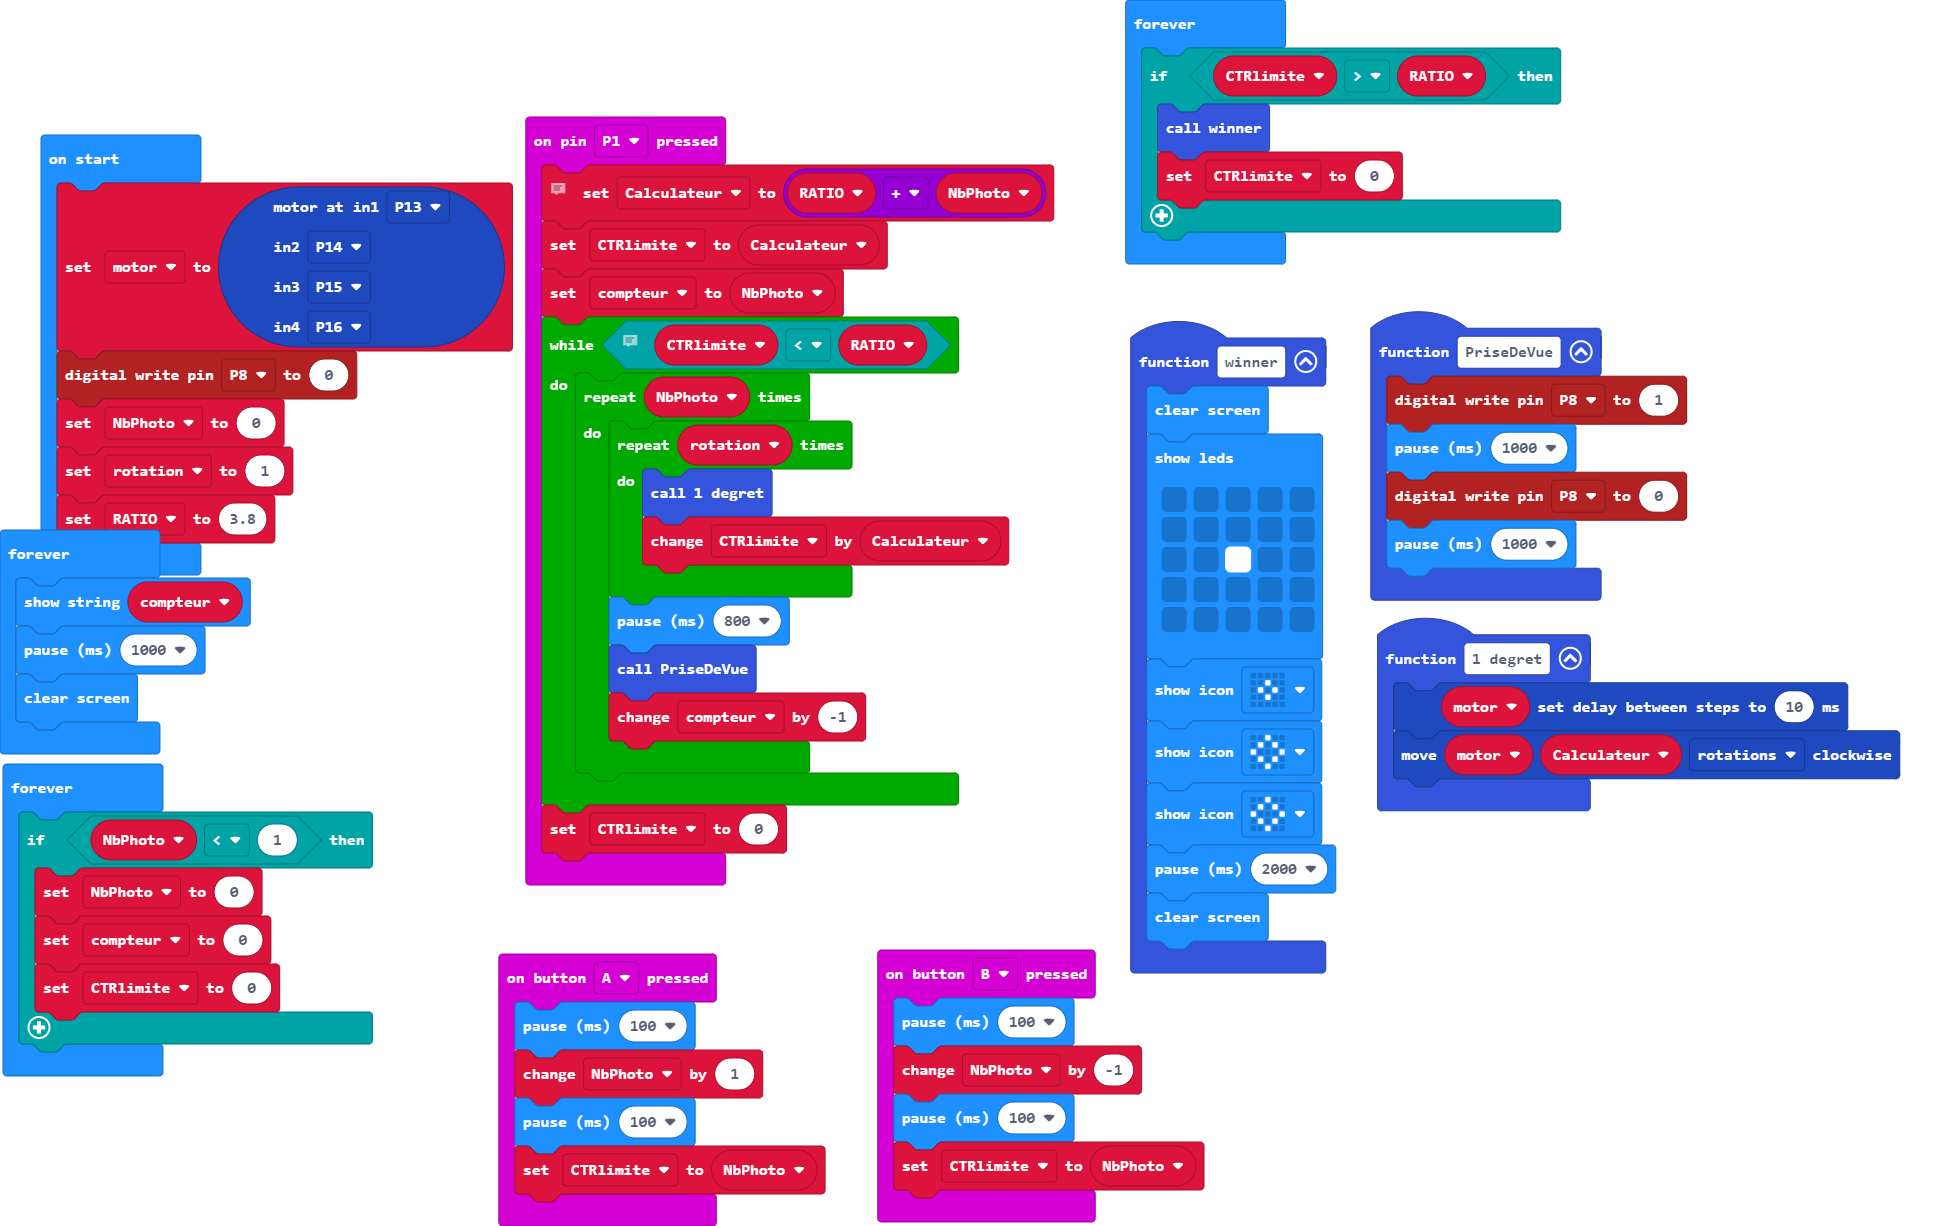
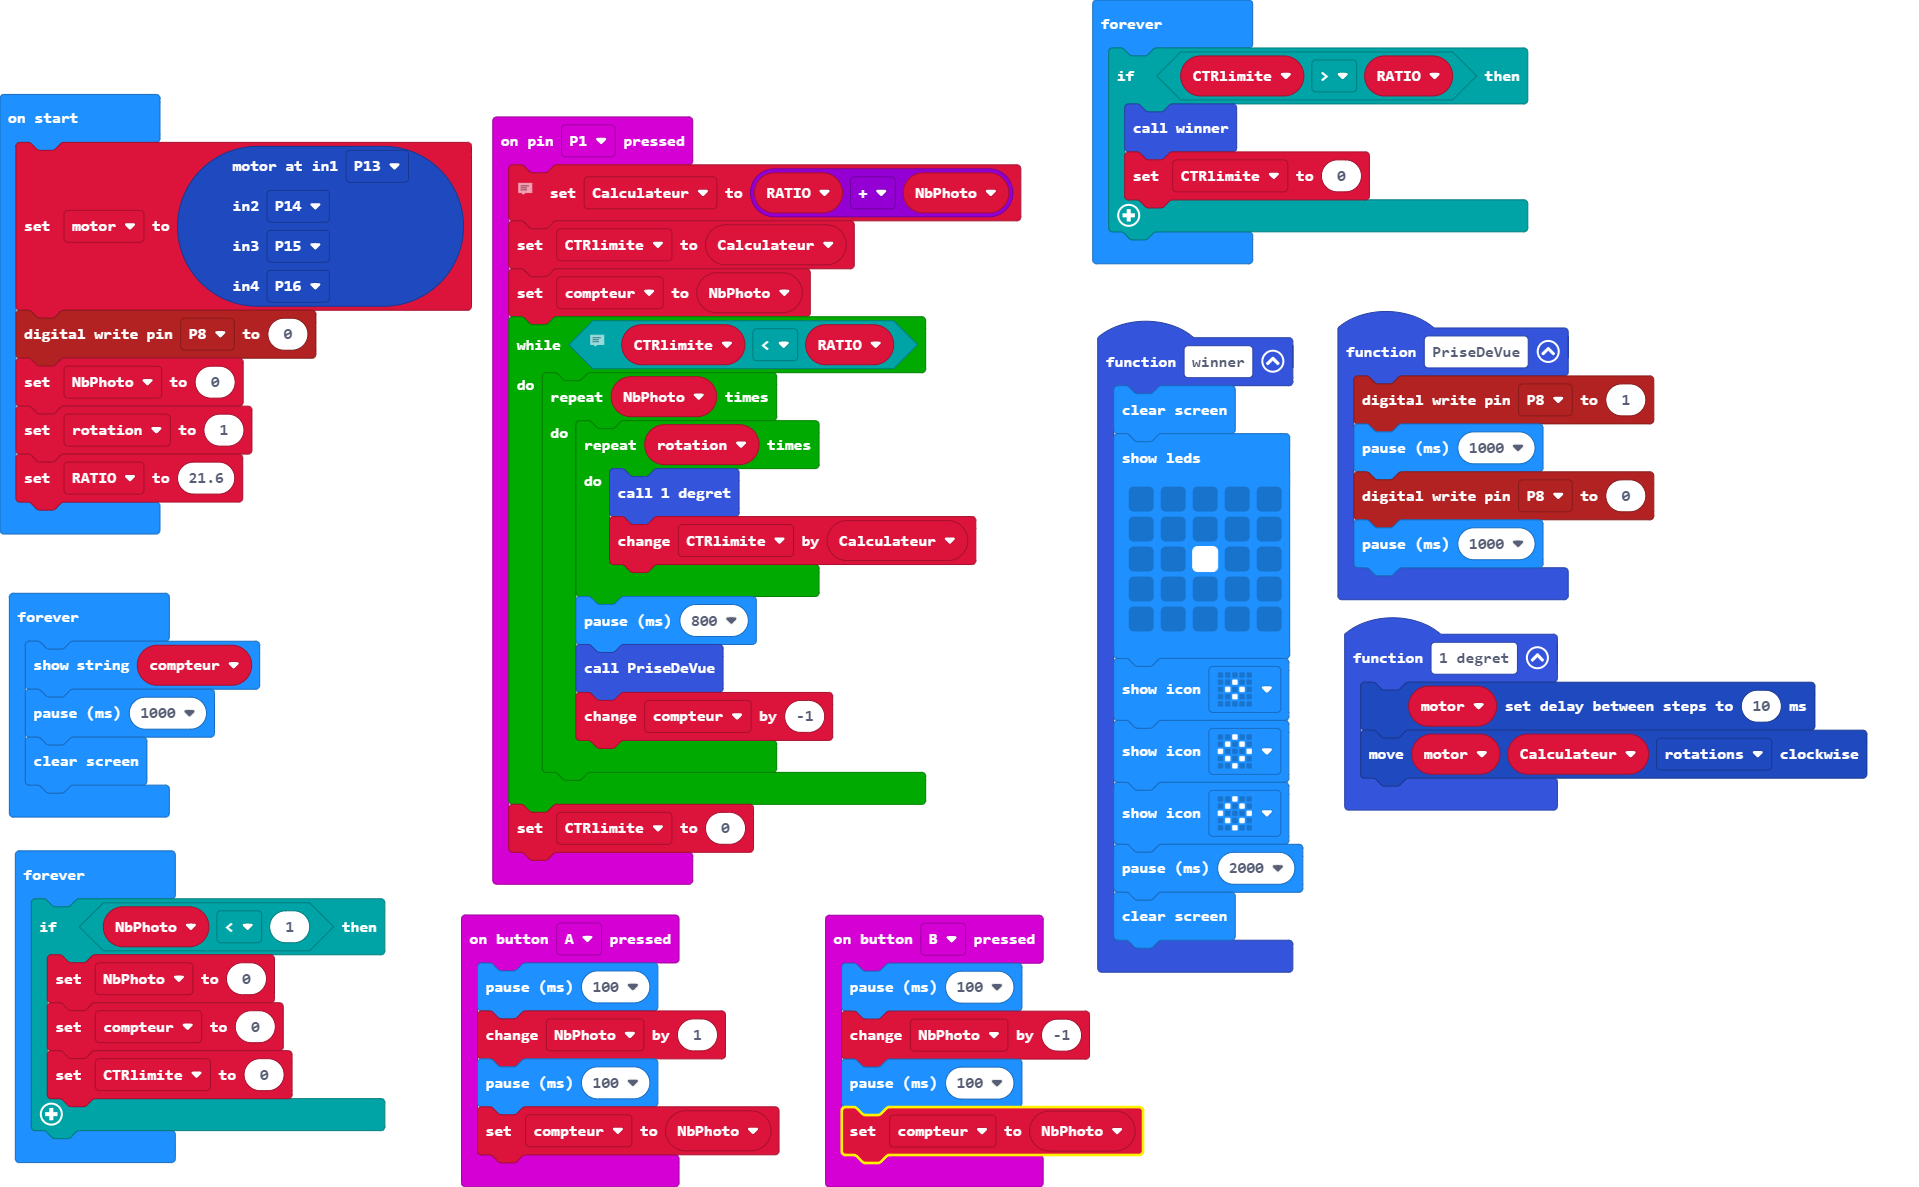
Update main.blocks, main.ts

diff --git a/main.ts b/main.ts
@@ -6,7 +6,7 @@ input.onButtonPressed(Button.A, function () {
     basic.pause(100)
     NbPhoto += 1
     basic.pause(100)
-    CTRlimite = NbPhoto
+    compteur = NbPhoto
 })
 function winner () {
     basic.clearScreen()
@@ -27,7 +27,7 @@ input.onButtonPressed(Button.B, function () {
     basic.pause(100)
     NbPhoto += -1
     basic.pause(100)
-    CTRlimite = NbPhoto
+    compteur = NbPhoto
 })
 input.onPinPressed(TouchPin.P1, function () {
     // calcule
@@ -54,8 +54,8 @@ function PriseDeVue () {
     pins.digitalWritePin(DigitalPin.P8, 0)
     basic.pause(1000)
 }
-let compteur = 0
 let CTRlimite = 0
+let compteur = 0
 let Calculateur = 0
 let RATIO = 0
 let rotation = 0
@@ -70,7 +70,7 @@ DigitalPin.P16
 pins.digitalWritePin(DigitalPin.P8, 0)
 NbPhoto = 0
 rotation = 1
-RATIO = 3.8
+RATIO = 21.6
 basic.forever(function () {
     if (CTRlimite > RATIO) {
         winner()
